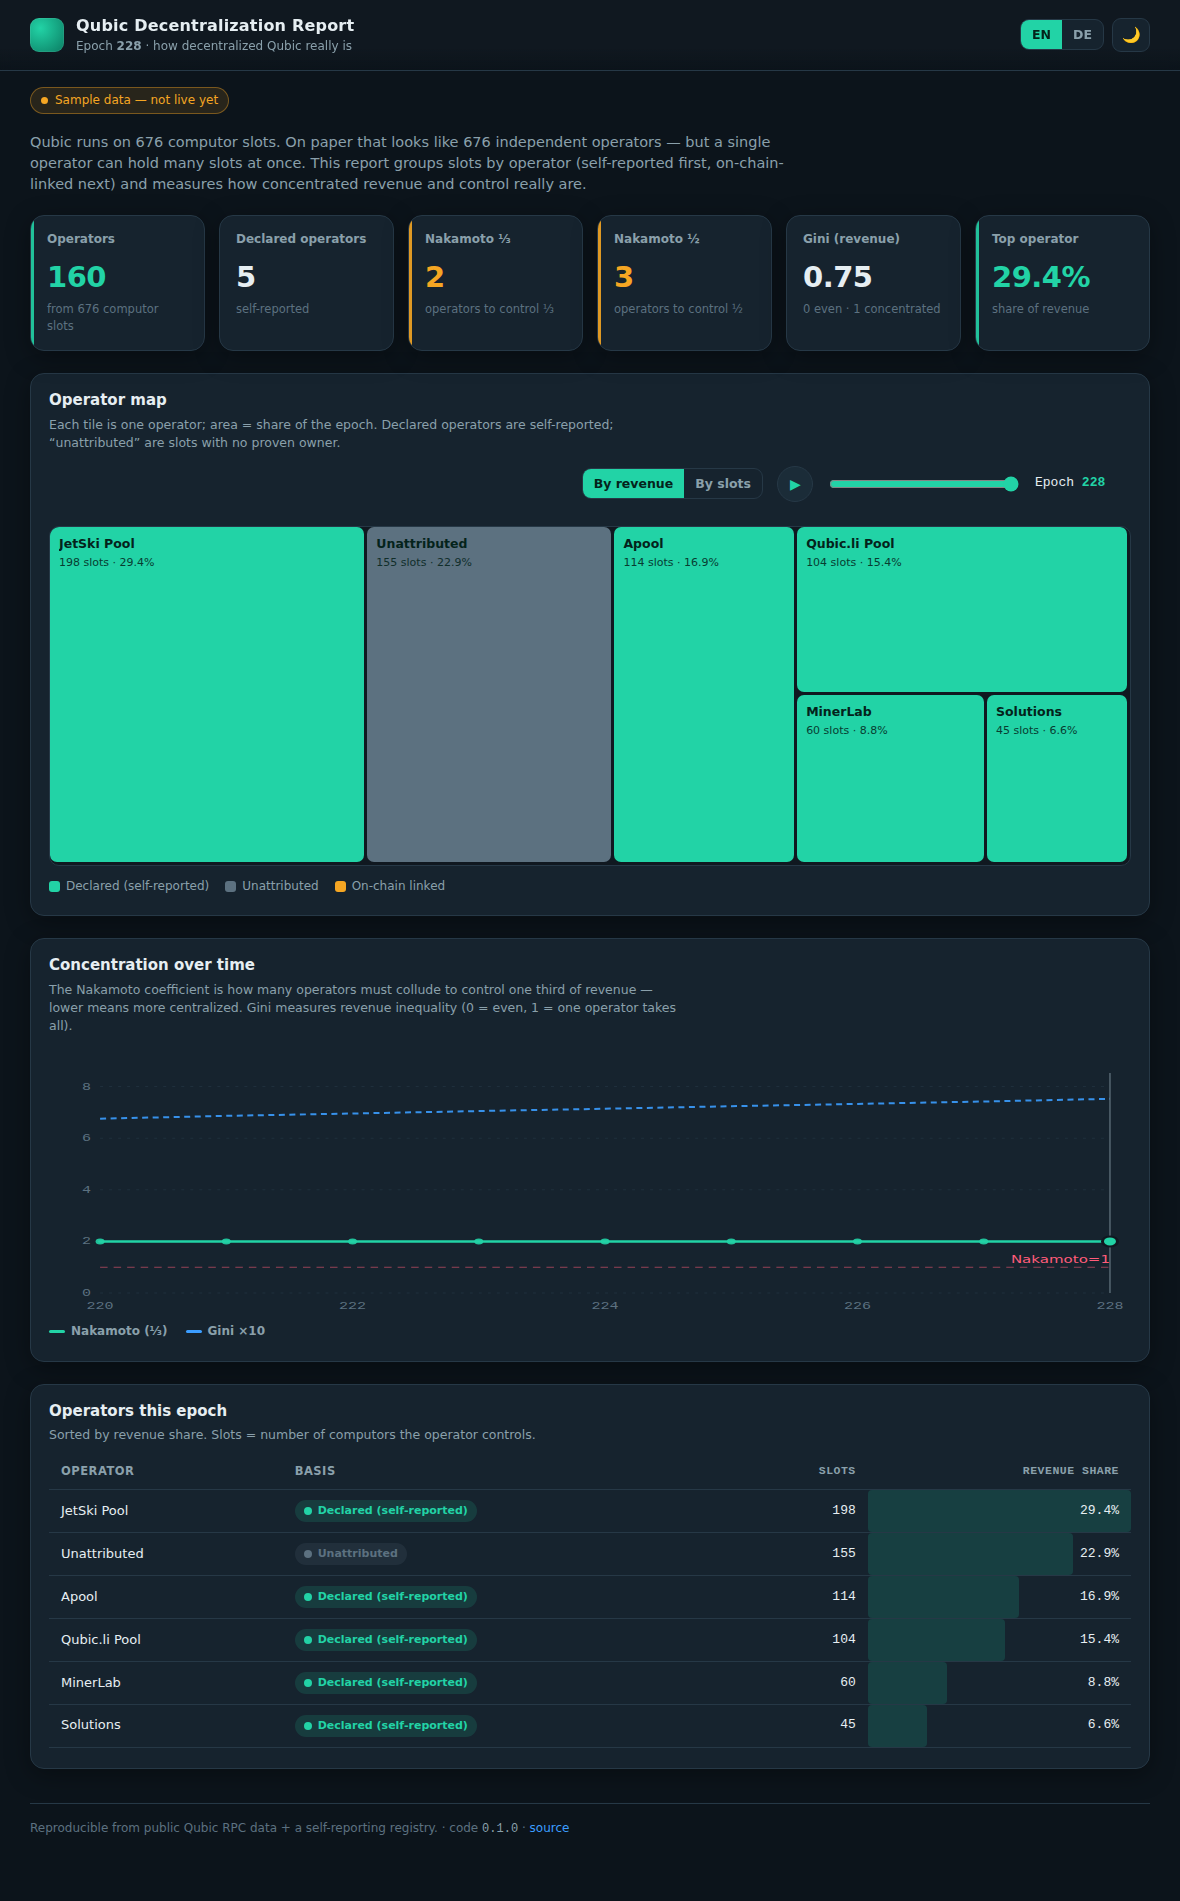
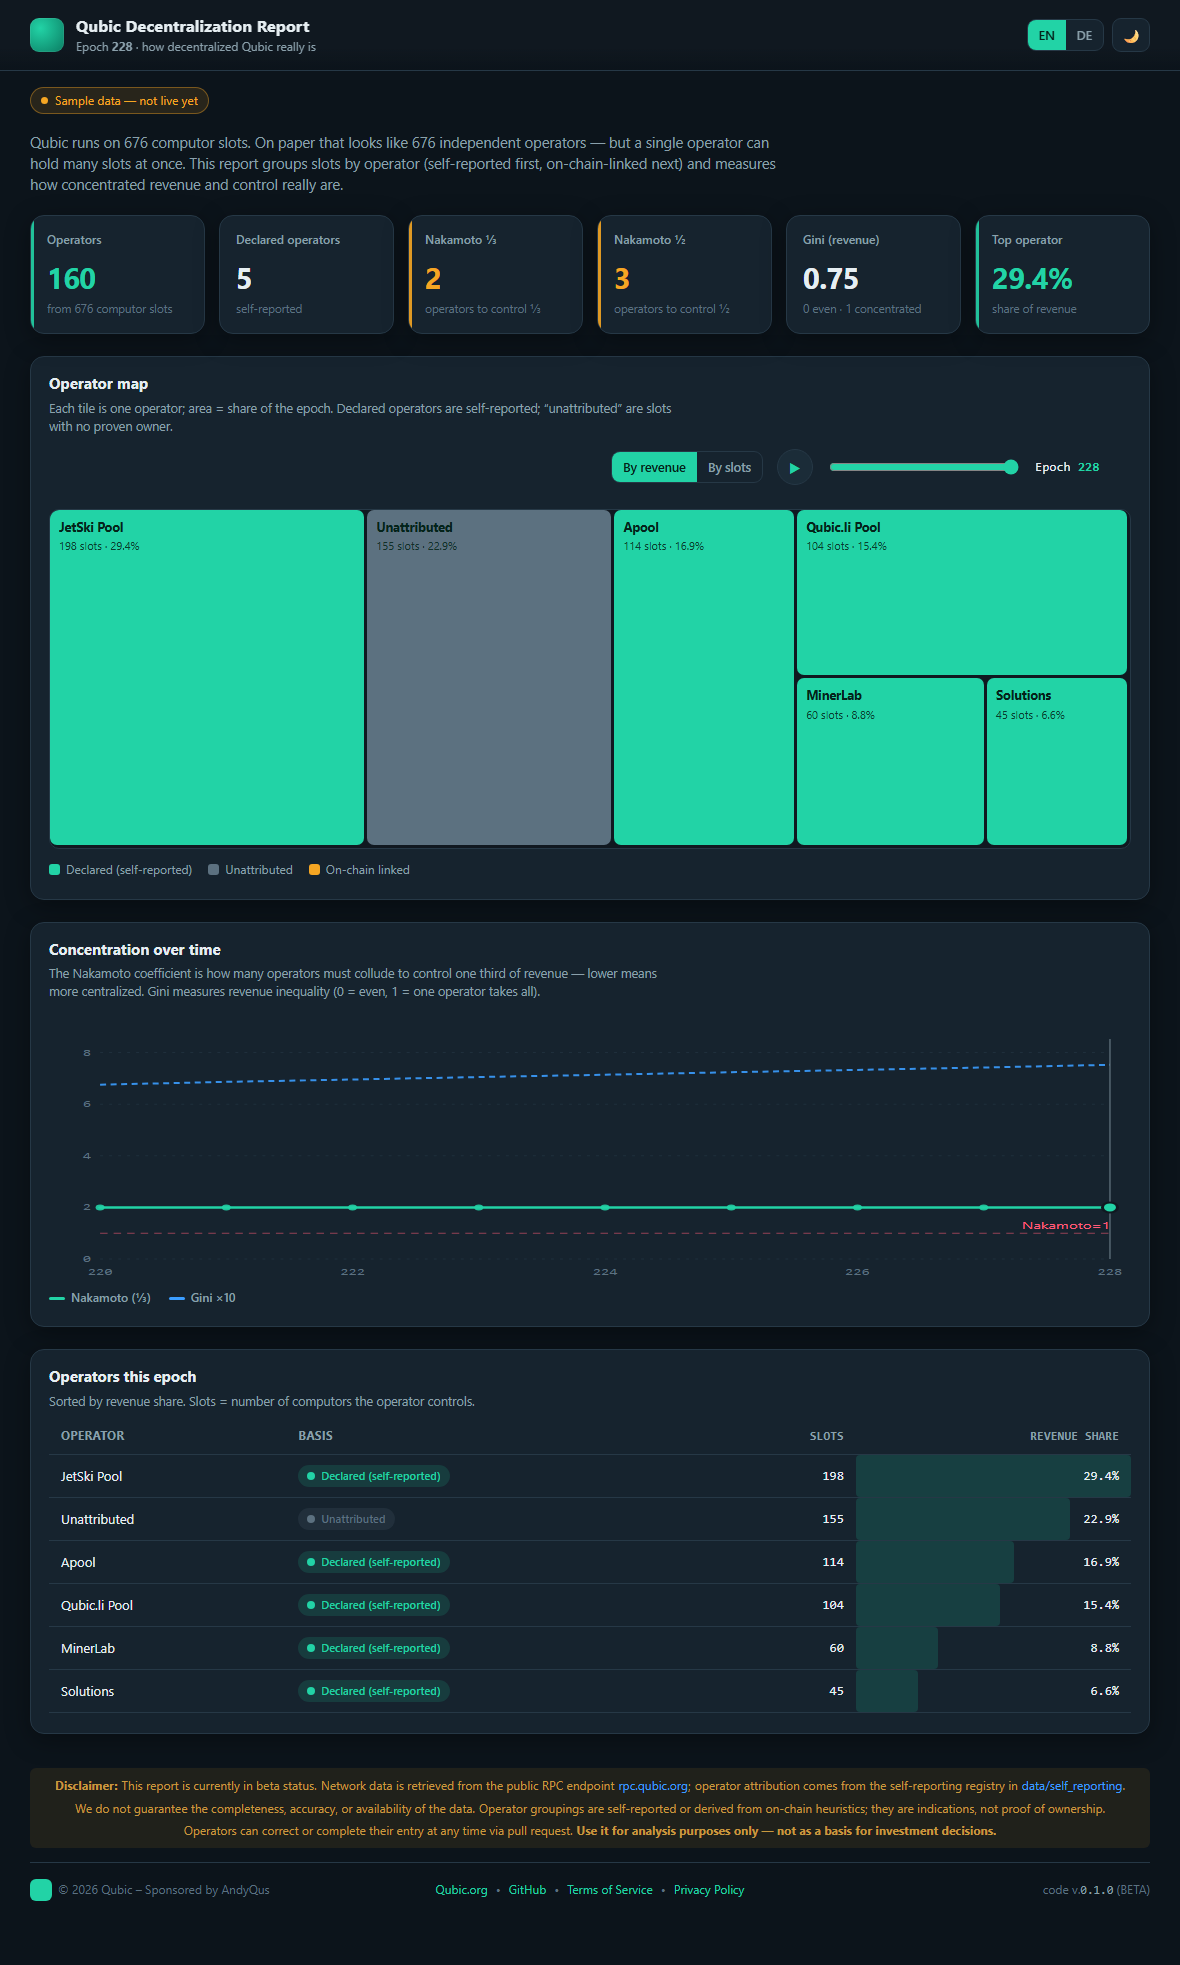
Add MIT license and Spotlight-style footer
The repo is going public, so it needs a license and the same footer the other
Qubic projects carry.

- MIT LICENSE (c) AndyQus — permissive so explorers can embed the widget and
  pools can contribute registry entries by pull request.
- Footer rebuilt after qubic_spotlight's FooterComponent: disclaimer alert on
  top, then logo + copyright / link row / version. The disclaimer text is
  reworded for this project (registry attribution instead of ad liability) and
  states that operator groupings are indications, not proof of ownership.
- README: the concept is now the first thing on the page, since everything here
  implements that document.
- preview_dashboard.png refreshed to show the new footer.

diff --git a/dashboard/index.html b/dashboard/index.html
@@ -9,6 +9,7 @@
     --bg:#0c141b; --bg2:#101820; --surface:#16232e; --surface2:#1b2c38;
     --border:#263846; --text:#e6eef2; --muted:#8aa0ab; --faint:#5c7180;
     --accent:#22d3a6; --accent2:#3b9dff; --warn:#f5a623; --danger:#ff5c7a;
+    --warn-bg:rgba(245,166,35,.09); --warn-fg:#c8993f; --warn-link:#3b9dff;
     --declared:#22d3a6; --unattributed:#5c7180; --linked:#f5a623; --flagged:#ff5c7a;
     --shadow:0 6px 24px rgba(0,0,0,.35);
     --radius:14px; --mono:ui-monospace,SFMono-Regular,Menlo,Consolas,monospace;
@@ -18,6 +19,7 @@
     --bg:#eef3f6; --bg2:#f6f9fb; --surface:#ffffff; --surface2:#f1f5f8;
     --border:#d8e2e8; --text:#132430; --muted:#546773; --faint:#8698a2;
     --accent:#0aa17e; --accent2:#1f7fe0; --warn:#c9820f; --danger:#e0435f;
+    --warn-bg:rgba(201,130,15,.10); --warn-fg:#8a5c07; --warn-link:#1f7fe0;
     --declared:#0aa17e; --unattributed:#93a6b0; --linked:#c9820f; --flagged:#e0435f;
     --shadow:0 6px 20px rgba(20,40,55,.10);
   }
@@ -128,8 +130,27 @@
   .bar-cell .bar{position:absolute;left:0;top:0;bottom:0;background:color-mix(in srgb,var(--accent) 16%,transparent);border-radius:4px}
   .bar-cell span{position:relative}
 
-  footer{margin-top:34px;font-size:12px;color:var(--faint);border-top:1px solid var(--border);padding-top:16px}
+  footer{margin-top:34px;font-size:12px;color:var(--faint)}
   footer code{font-family:var(--mono);color:var(--muted)}
+  /* disclaimer alert — mirrors the Spotlight footer's warning banner */
+  .fdisc{display:flex;flex-wrap:wrap;justify-content:center;align-items:baseline;gap:4px;
+         text-align:center;padding:8px 10px;border-radius:6px;line-height:1.55;
+         background:var(--warn-bg);color:var(--warn-fg);margin-bottom:14px}
+  .fdisc a{color:var(--warn-link);text-decoration:none}
+  .fdisc a:hover{text-decoration:underline}
+  .fbar{display:grid;grid-template-columns:1fr auto 1fr;align-items:center;gap:10px;
+        border-top:1px solid var(--border);padding-top:16px}
+  .fbar .fleft{display:flex;align-items:center;gap:6px}
+  .fbar .flogo{width:22px;height:22px;border-radius:6px;background:var(--accent);flex:0 0 auto}
+  .fbar .flinks{display:flex;flex-wrap:wrap;justify-content:center;align-items:center;gap:8px}
+  .fbar .flinks a{color:var(--accent);text-decoration:none}
+  .fbar .flinks a:hover{text-decoration:underline}
+  .fbar .fsep{color:var(--faint)}
+  .fbar .fright{text-align:right}
+  @media (max-width:720px){
+    .fbar{grid-template-columns:1fr;justify-items:center;text-align:center;gap:8px}
+    .fbar .fright{text-align:center}
+  }
   @media (max-width:560px){.kpi .k-val{font-size:24px}.epoch-bar input[type=range]{width:130px}}
 </style>
 </head>
@@ -228,8 +249,36 @@
   </section>
 
   <footer>
-    <span data-i18n="footer">Reproducible from public Qubic RPC data + a self-reporting registry.</span>
-    <span> · <span data-i18n="codeVersion">code</span> <code id="code-ver">–</code> · <a href="https://github.com" id="repo-link" data-i18n="repo">source</a></span>
+    <div class="fdisc">
+      <b data-i18n="discLabel">Disclaimer:</b>
+      <span data-i18n="discBeta">This report is currently in beta status.</span>
+      <span data-i18n="discData">Network data is retrieved from the public RPC endpoint</span>
+      <span><a href="https://rpc.qubic.org" target="_blank" rel="noreferrer">rpc.qubic.org</a>;</span>
+      <span data-i18n="discData2">operator attribution comes from the self-reporting registry in</span>
+      <span><a href="https://github.com/AndyQus/qubic-decentralization-report/tree/main/data/self_reporting"
+         id="registry-link" target="_blank" rel="noreferrer">data/self_reporting</a>.</span>
+      <span data-i18n="discNoGuarantee">We do not guarantee the completeness, accuracy, or availability of the data.</span>
+      <span data-i18n="discSelfReported">Operator groupings are self-reported or derived from on-chain heuristics; they are indications, not proof of ownership.</span>
+      <span data-i18n="discCorrections">Operators can correct or complete their entry at any time via pull request.</span>
+      <b data-i18n="discDemo">Use it for analysis purposes only — not as a basis for investment decisions.</b>
+    </div>
+
+    <div class="fbar">
+      <div class="fleft">
+        <span class="flogo" aria-hidden="true"></span>
+        <span>&copy; <span id="foot-year">2026</span> <span data-i18n="sponsored">Qubic – Sponsored by AndyQus</span></span>
+      </div>
+      <div class="flinks">
+        <a href="https://qubic.org" target="_blank" rel="noreferrer">Qubic.org</a>
+        <span class="fsep">&#x2022;</span>
+        <a href="https://github.com/AndyQus/qubic-decentralization-report" id="repo-link" target="_blank" rel="noreferrer">GitHub</a>
+        <span class="fsep">&#x2022;</span>
+        <a href="https://qubic.org/terms-of-service" target="_blank" rel="noreferrer" data-i18n="tos">Terms of Service</a>
+        <span class="fsep">&#x2022;</span>
+        <a href="https://qubic.org/privacy-policy" target="_blank" rel="noreferrer" data-i18n="privacy">Privacy Policy</a>
+      </div>
+      <div class="fright"><span data-i18n="codeVersion">code</span> v.<code id="code-ver">–</code> (BETA)</div>
+    </div>
   </footer>
 </div>
 
@@ -253,7 +302,15 @@
       nakamotoShort:"Nakamoto (⅓)", giniShort:"Gini ×10",
       tableTitle:"Operators this epoch", tableDesc:"Sorted by revenue share. Slots = number of computors the operator controls.",
       thOperator:"Operator", thConfidence:"Basis", thSlots:"Slots", thShare:"Revenue share",
-      footer:"Reproducible from public Qubic RPC data + a self-reporting registry.", codeVersion:"code", repo:"source",
+      codeVersion:"code", repo:"source",
+      discLabel:"Disclaimer:", discBeta:"This report is currently in beta status.",
+      discData:"Network data is retrieved from the public RPC endpoint",
+      discData2:"operator attribution comes from the self-reporting registry in",
+      discNoGuarantee:"We do not guarantee the completeness, accuracy, or availability of the data.",
+      discSelfReported:"Operator groupings are self-reported or derived from on-chain heuristics; they are indications, not proof of ownership.",
+      discCorrections:"Operators can correct or complete their entry at any time via pull request.",
+      discDemo:"Use it for analysis purposes only — not as a basis for investment decisions.",
+      sponsored:"Qubic – Sponsored by AndyQus", tos:"Terms of Service", privacy:"Privacy Policy",
       kOperators:"Operators", kOperatorsSub:"from 676 computor slots",
       kDeclared:"Declared operators", kDeclaredSub:"self-reported",
       kNak13:"Nakamoto ⅓", kNak13Sub:"operators to control ⅓",
@@ -272,7 +329,15 @@
       nakamotoShort:"Nakamoto (⅓)", giniShort:"Gini ×10",
       tableTitle:"Betreiber dieser Epoche", tableDesc:"Sortiert nach Umsatzanteil. Slots = Anzahl der Computors des Betreibers.",
       thOperator:"Betreiber", thConfidence:"Basis", thSlots:"Slots", thShare:"Umsatzanteil",
-      footer:"Reproduzierbar aus öffentlichen Qubic-RPC-Daten + einem Self-Reporting-Registry.", codeVersion:"Code", repo:"Quelle",
+      codeVersion:"Code", repo:"Quelle",
+      discLabel:"Disclaimer:", discBeta:"Dieser Report befindet sich derzeit im Beta-Status.",
+      discData:"Die Netzwerkdaten stammen vom öffentlichen RPC-Endpunkt",
+      discData2:"die Betreiber-Zuordnung aus dem Self-Reporting-Registry in",
+      discNoGuarantee:"Wir übernehmen keine Gewähr für Vollständigkeit, Richtigkeit oder Verfügbarkeit der Daten.",
+      discSelfReported:"Die Betreiber-Gruppierungen sind self-reported oder aus On-Chain-Heuristiken abgeleitet; sie sind Hinweise, kein Eigentumsnachweis.",
+      discCorrections:"Betreiber können ihren Eintrag jederzeit per Pull Request korrigieren oder ergänzen.",
+      discDemo:"Nutzung nur zu Analysezwecken — keine Grundlage für Investitionsentscheidungen.",
+      sponsored:"Qubic – Sponsored by AndyQus", tos:"Nutzungsbedingungen", privacy:"Datenschutz",
       kOperators:"Betreiber", kOperatorsSub:"aus 676 Computor-Slots",
       kDeclared:"Deklarierte Betreiber", kDeclaredSub:"self-reported",
       kNak13:"Nakamoto ⅓", kNak13Sub:"Betreiber für ⅓-Kontrolle",
@@ -511,6 +576,7 @@
   function startUI(){
     document.getElementById("sample-badge").hidden=!isSample;
     document.getElementById("code-ver").textContent=report.code_version||"–";
+    document.getElementById("foot-year").textContent=String(new Date().getFullYear());
     range.max=String(Math.max(0,epochs.length-1)); range.value=String(idx);
     if(!series.length){
       document.getElementById("kpis").innerHTML="<div class='kpi'><div class='k-label'>No data</div><div class='k-sub'>Load data.js or add ?api=&lt;base-url&gt;.</div></div>";

diff --git a/README.md b/README.md
@@ -1,5 +1,16 @@
 # Qubic Decentralization Report
 
+> ## 📄 Start here: the concept
+>
+> **[`docs/CONCEPT.md`](docs/CONCEPT.md) (English) · [`docs/CONCEPT.de.md`](docs/CONCEPT.de.md) (Deutsch)**
+>
+> The concept is the heart of this project — it explains *what* is measured, *why* those
+> metrics, and *how* slots are attributed to operators (and where that attribution stops
+> being provable). Read it before the code: everything here implements that document.
+> Both language versions are kept in sync — any change to one is mirrored in the other.
+
+![Dashboard preview](docs/preview_dashboard.png)
+
 A tool that measures **how decentralized Qubic actually is** and publishes the result as an
 API that explorers can embed, plus a reference dashboard.
 
@@ -9,9 +20,11 @@ cluster** — built on Qubic's **self-reporting** anti-Sybil approach and extend
 on-chain and behavioral signals to quantify concentration/collusion among the 676
 Computors.
 
-> Full rationale and design: [`docs/CONCEPT.md`](docs/CONCEPT.md) (English) ·
-> [`docs/CONCEPT.de.md`](docs/CONCEPT.de.md) (Deutsch). Both versions are kept in sync —
-> any change to one is mirrored in the other.
+**Run it in one line** (details under [Docker](#docker--publishing)):
+
+```bash
+docker run -d -p 8000:8000 -v qdr-data:/data andyqus/qubic_decentralization_report:latest
+```
 
 ## How the pieces fit together
 
@@ -37,6 +50,9 @@ api/          The service that serves the computed report (JSON)
 analysis/     Revenue-metrics and clustering engines
 data/         Cached raw pulls (data/raw) + the self-reporting registry
 dashboard/    Reference front-end: charts, animations, DE/EN i18n, dark/light
+scripts/      CLI: build reports, validate the registry, verify the dashboard
+tests/        Metric + report unit tests
+Dockerfile, docker-compose.yaml, .env.example
 ```
 
 ## Dashboard requirements (front-end)
@@ -86,7 +102,111 @@ live dashboard. Tasks for install / tests / sample-data are in the Command Palet
 A one-line widget, an iframe, or the raw JSON API — see [`docs/EMBEDDING.md`](docs/EMBEDDING.md)
 and the live demo at `examples/embed-example.html` (or `http://localhost:8000/examples/embed-example.html`).
 
-![dashboard preview](docs/preview_dashboard.png)
+
+## Docker / Publishing
+
+```bash
+docker build -t andyqus/qubic_decentralization_report:latest .
+docker push andyqus/qubic_decentralization_report:latest
+```
+
+The image bundles the API, the dashboard and the embed example, so one container
+serves everything on port `8000`. It needs **no secrets** — the report is built purely
+from public RPC data. The RPC cache lives in the volume under `/data`.
+
+### Deployment for admins (Docker)
+
+**1. Pull the image**
+
+```bash
+docker pull andyqus/qubic_decentralization_report:latest
+```
+
+(Alternatively build it yourself: `docker build -t andyqus/qubic_decentralization_report:latest .`)
+
+**2. Put `docker-compose.yaml` + `.env.example` on the server**
+
+Both files are in the repo and must reside in the same directory on the server.
+
+**3. Optional settings** – there are **no mandatory secrets**: the report reads public RPC
+data only, and has no login, no database and no uploads. Create the `.env` only if you
+want to deviate from the defaults:
+
+```bash
+cp .env.example .env
+```
+
+```env
+QUBIC_RPC_BASE=https://rpc.qubic.org
+#QDR_REGISTRY=/data/pools.json
+```
+
+**4. Start**
+
+```bash
+docker compose up -d
+```
+
+Then open `http://<host>:8000/` — the dashboard is served directly and fetches the API
+next to it. Health check: `http://<host>:8000/health`.
+
+**5. HTTPS via reverse proxy** – explorers embed the widget from HTTPS pages, so the API
+must be reachable over HTTPS too (a browser blocks mixed content otherwise). Minimal
+Caddy setup next to the compose file:
+
+```caddyfile
+# /etc/caddy/Caddyfile
+report.example.org {
+    encode gzip
+    reverse_proxy localhost:8000
+}
+```
+
+```bash
+sudo apt install -y caddy          # Debian/Ubuntu
+sudo systemctl reload caddy        # certificate is obtained automatically
+```
+
+Caddy handles the Let's Encrypt certificate on its own. With nginx use a normal
+`proxy_pass http://127.0.0.1:8000;` plus certbot.
+
+**6. Keep it updated**
+
+```bash
+docker compose pull && docker compose up -d
+docker image prune -f              # remove the superseded image
+```
+
+**Important for operation:**
+
+- **Network access:** the container must be able to reach `rpc.qubic.org` (or whatever
+  `QUBIC_RPC_BASE` points at). Without it the service still starts and serves the
+  bundled sample snapshots, so the dashboard never renders empty — but the numbers are
+  then **not live**. The `sample` badge in the dashboard shows this state.
+- **Persistent data** lives in the named volume `qdr-data` → `/data` (the RPC cache).
+  Inspect it with `docker volume inspect qdr-data`. The cache is rebuildable from RPC,
+  so a backup is nice-to-have, not critical.
+- The app listens on port `8000` inside the container (mapped to host `8000`). A reverse
+  proxy (e.g. Caddy/Nginx) for HTTPS belongs in front of it, especially since explorers
+  embedding the widget will load it over HTTPS.
+- **CORS is open (`*`) by design** — the point is for third-party explorers to embed the
+  report. The API is read-only (`GET` only), so there is nothing to protect against
+  writes; do put a rate limit in the reverse proxy if you expose it publicly.
+- **The registry** (`data/self_reporting/pools.json`) is baked into the image. To run
+  your own without rebuilding, mount it and set `QDR_REGISTRY` — see the commented
+  lines in `docker-compose.yaml`.
+- The container runs as a **non-root user** (uid 10001). The named volume above gets the
+  correct ownership automatically. If you switch to a host bind mount instead, run
+  `sudo chown -R 10001:10001 <path>` once, otherwise the cache cannot be written.
+
+## Configuration (environment variables)
+
+| Variable | Purpose | Default |
+|----------|---------|---------|
+| `QUBIC_RPC_BASE` | Qubic RPC endpoint the report is built from | https://rpc.qubic.org |
+| `DATA_DIR` | Storage for the RPC cache (`$DATA_DIR/raw`) | (local: `data/raw`) |
+| `QDR_REGISTRY` | Path to the self-reporting registry | bundled `data/self_reporting/pools.json` |
+| `QUBIC_ARBITRATOR` | Arbitrator identity used for revenue derivation | built-in default |
 
 ## Status
 
@@ -99,3 +219,9 @@ on-chain-linkage layer. See the roadmap in [`docs/CONCEPT.md`](docs/CONCEPT.md) 
 
 A community bounty (~2B QU) has been offered for a decentralization report that gets
 accepted and embedded by explorers. This project targets that deliverable.
+
+## License
+
+MIT — see [`LICENSE`](LICENSE). Use it, fork it, embed it, ship it commercially; just keep
+the copyright notice. Pool self-reports and other contributions are accepted under the same
+terms via pull request.
